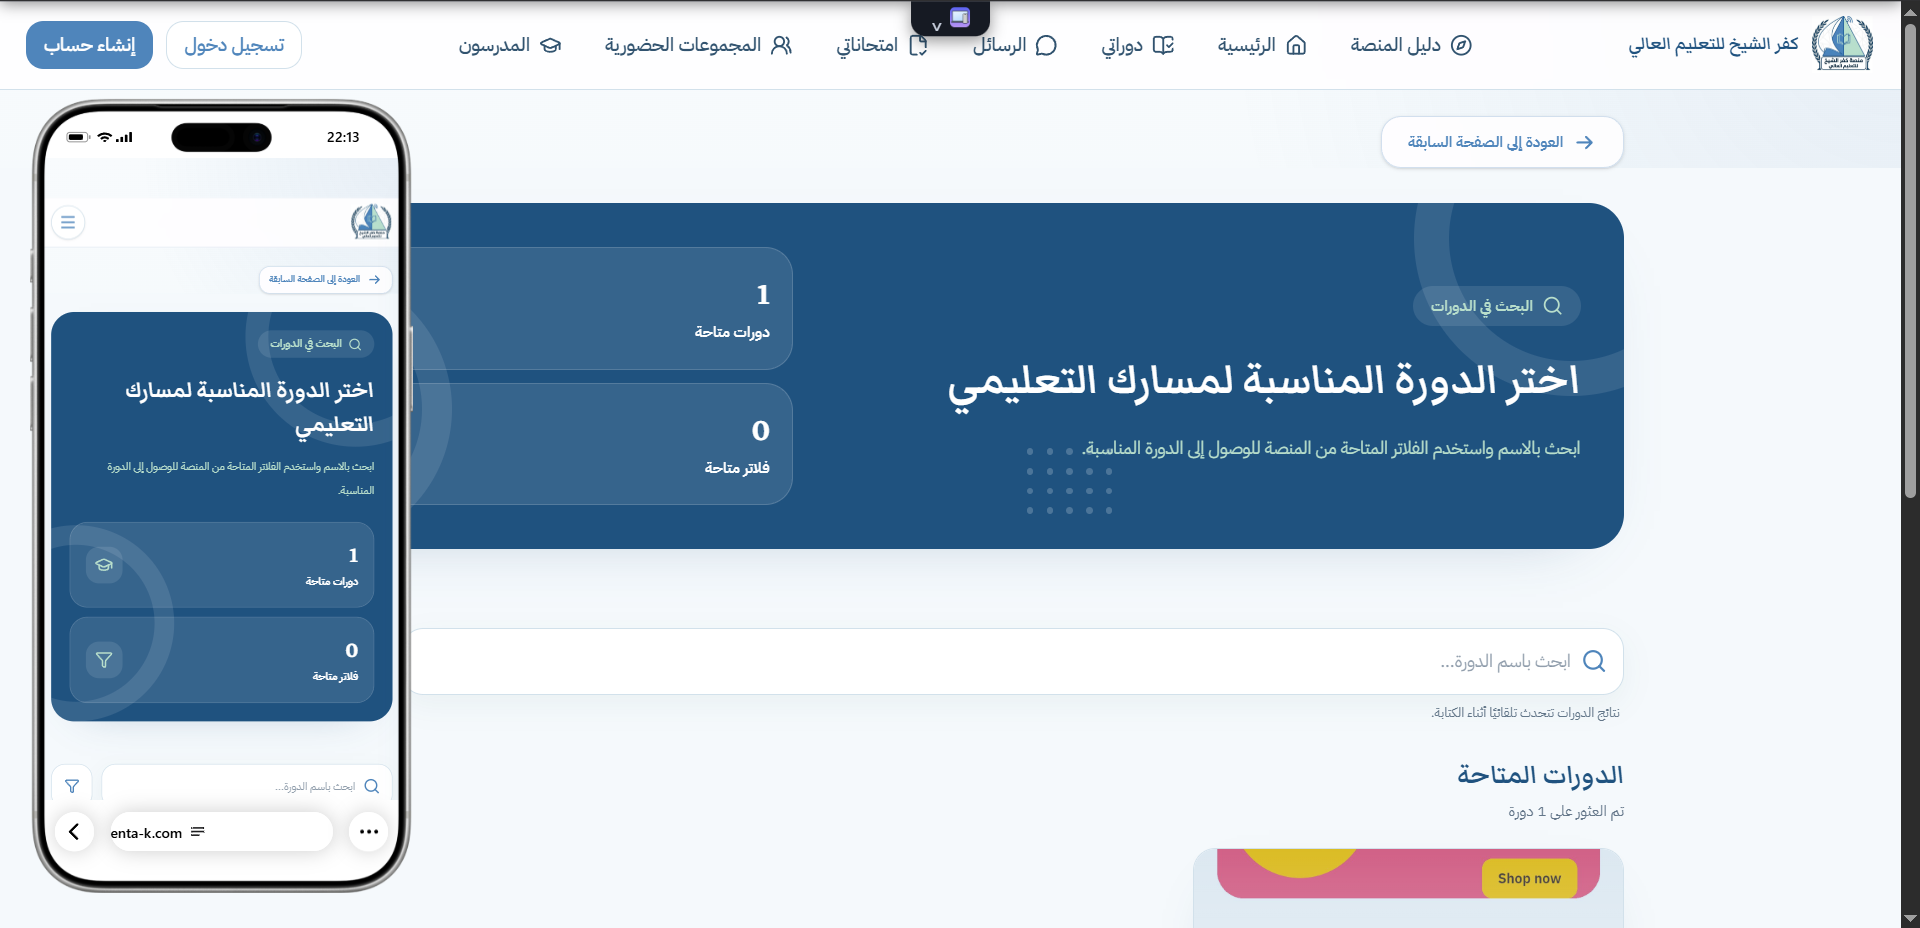
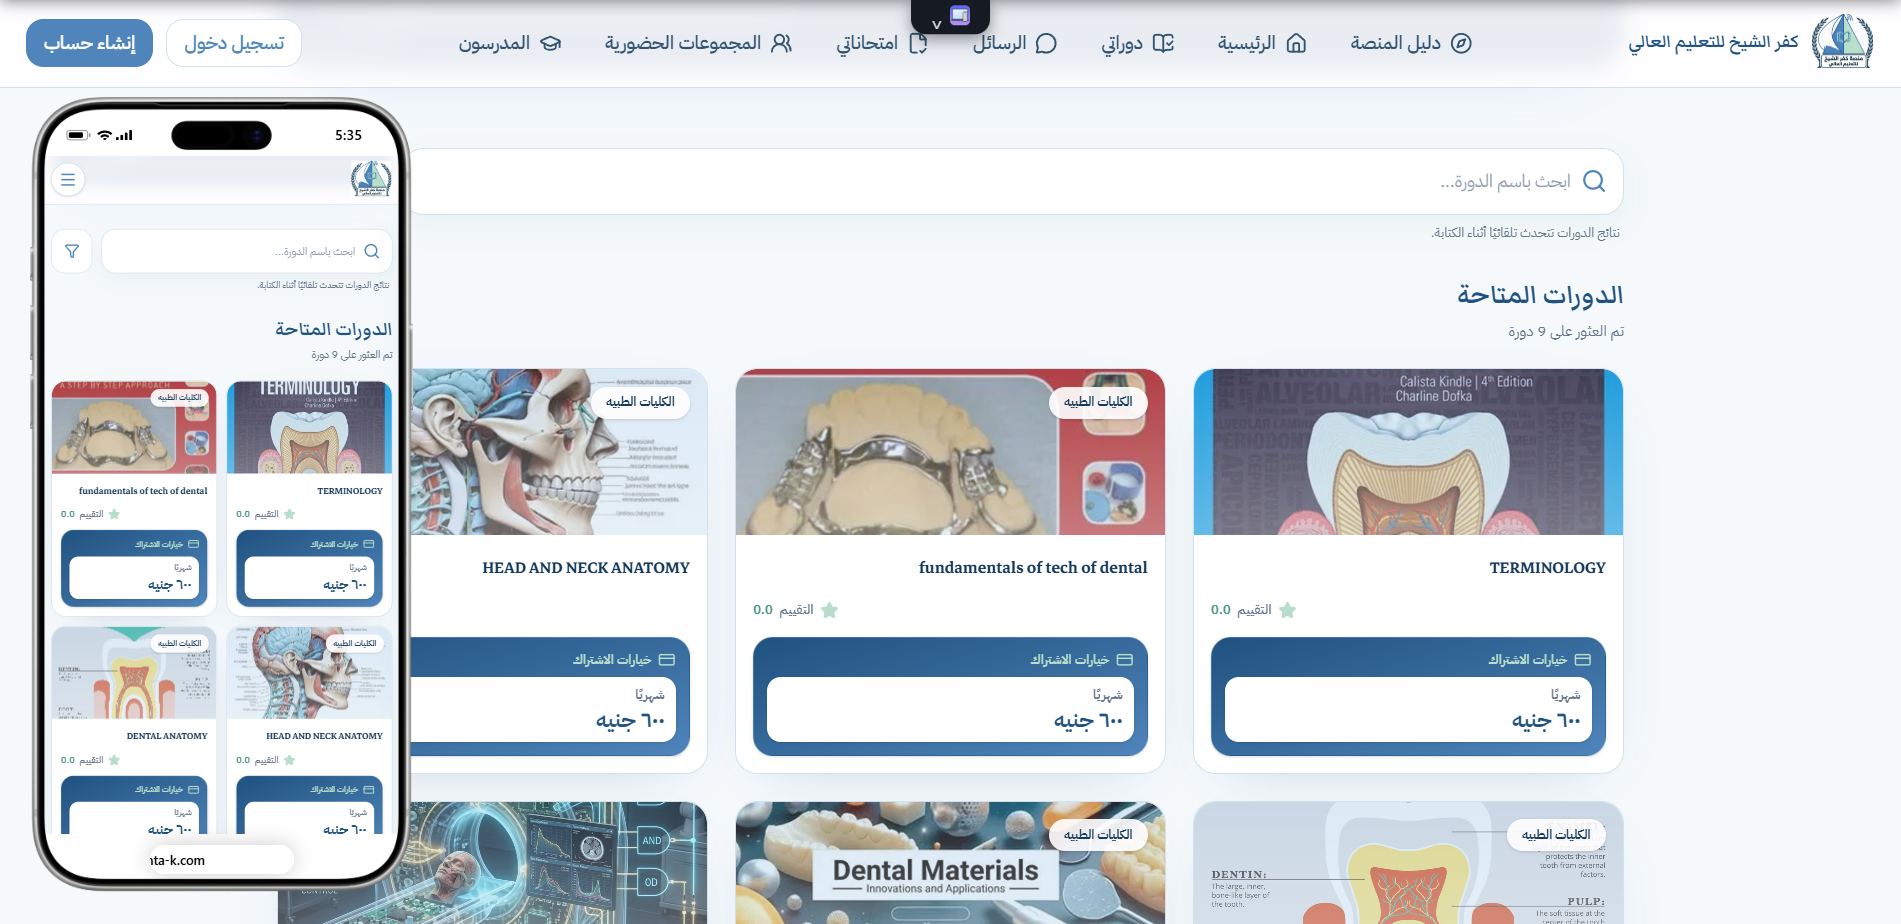
Update KFS education platform live URL

diff --git a/src/data/projects.ts b/src/data/projects.ts
@@ -43,7 +43,7 @@ export const projects: PortfolioProject[] = [
     description:
       "A full-featured bilingual e-learning platform for Kafr El Sheikh Higher Education, bringing students, teachers and administrators together to manage courses, lessons, exams, subscriptions, payments, messages and notifications in one organized experience.",
     image: "/projects/kfs-education-platform.png",
-    liveUrl: "https://kfs-edu-dev.penta-k.com/",
+    liveUrl: "https://kfs-edu.penta-k.com",
     roles: ["UI/UX Design", "Front-End Development"],
     tags: ["UI/UX Design", "Front-End Dev"],
     featured: true,
